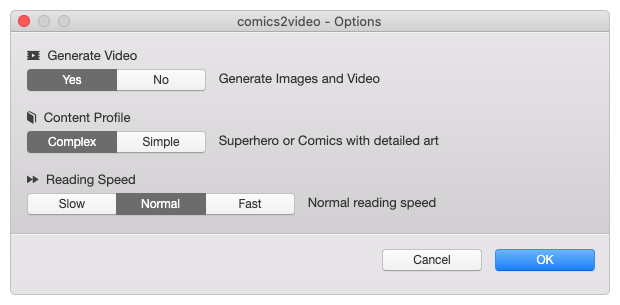
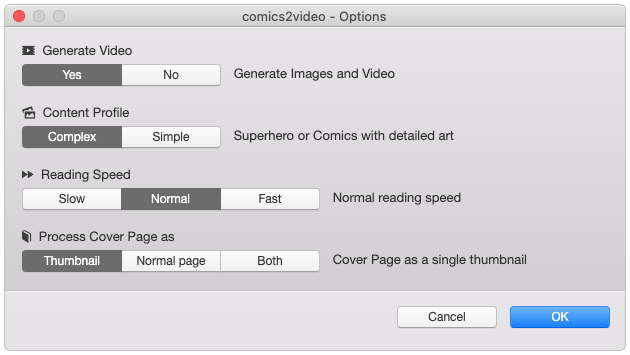
Cover Page Processing option and PDF (in Windows)

Changed region(s): [[0.0, 0.0, 1.0, 1.0]]

diff --git a/src/gui/renderer/optionWindow.js b/src/gui/renderer/optionWindow.js
@@ -16,15 +16,17 @@ const setMessage = (elementId, messageId) => {
 const parameters = [
     { name: 'GenerateVideo', options: ['Yes', 'No'], descriptions: [message('generate_video_yes'), message('generate_video_no')] },
     { name: 'ContentProfile', options: ['Complex', 'Simple'], descriptions: [message('content_profile_complex'), message('content_profile_simple')] },
-    { name: 'ReadingSpeed', options: ['Slow', 'Normal', 'Fast'], descriptions: [message('reading_speed_slow'), message('reading_speed_normal'), message('reading_speed_fast')] }
+    { name: 'ReadingSpeed', options: ['Slow', 'Normal', 'Fast'], descriptions: [message('reading_speed_slow'), message('reading_speed_normal'), message('reading_speed_fast')] },
+    { name: 'CoverPageProcessing', options: ['Thumbnail', 'NormalPage', 'Both'], descriptions: [message('cover_page_thumbnail'), message('cover_page_normal_page'), message('cover_page_both')] }
 ];
 
-const { userParams, contentProfiles, readingSpeeds } = ipcRenderer.sendSync('getUserParams');
+const { userParams, contentProfiles, readingSpeeds, coverPageProcessing } = ipcRenderer.sendSync('getUserParams');
 
 const setUserParams = () => {
     userParams.generateVideo = parameters[0].selectedIndex === 0;
     userParams.contentProfile = parameters[1].selectedIndex === 0 ? contentProfiles.complexContent : contentProfiles.simpleContent;
     userParams.readingSpeed = parameters[2].selectedIndex === 0 ? readingSpeeds.slow : parameters[2].selectedIndex === 1 ? readingSpeeds.normal : readingSpeeds.fast;
+    userParams.coverPageProcessing = parameters[3].selectedIndex === 0 ? coverPageProcessing.thumbnailPage : parameters[3].selectedIndex === 1 ? coverPageProcessing.normalPage : coverPageProcessing.thumbnailAndNormalPage;
 
     ipcRenderer.send('setUserParams', userParams);
 }
@@ -57,6 +59,7 @@ const showParams = () => {
     setOption(parameters[0], userParams.generateVideo ? 0 : 1);
     setOption(parameters[1], userParams.contentProfile.name === contentProfiles.complexContent.name ? 0 : 1);
     setOption(parameters[2], userParams.readingSpeed.name === readingSpeeds.slow.name ? 0 : userParams.readingSpeed.name === readingSpeeds.normal.name ? 1 : 2);
+    setOption(parameters[3], userParams.coverPageProcessing.name === coverPageProcessing.thumbnailPage.name ? 0 : userParams.coverPageProcessing.name === coverPageProcessing.normalPage.name ? 1 : 2);
 }
 
 const checkShortcutKeys = (e) => {
@@ -80,6 +83,12 @@ const setMessages = () => {
     setMessage('lblSlow', 'slow');
     setMessage('lblNormal', 'normal');
     setMessage('lblFast', 'fast');
+
+    setMessage('lblCoverPageProcessingLabel', 'cover_page');
+    setMessage('lblThumbnail', 'thumbnail');
+    setMessage('lblNormalPage', 'normal_page');
+    setMessage('lblBoth', 'both');
+
     setMessage('lblOK', 'ok');
     setMessage('lblCancel', 'cancel');
 }
@@ -98,6 +107,9 @@ const prepareWindow = () => {
     element('btnSlow').addEventListener('click', () => setOption(parameters[2], 0));
     element('btnNormal').addEventListener('click', () => setOption(parameters[2], 1));
     element('btnFast').addEventListener('click', () => setOption(parameters[2], 2));
+    element('btnThumbnail').addEventListener('click', () => setOption(parameters[3], 0));
+    element('btnNormalPage').addEventListener('click', () => setOption(parameters[3], 1));
+    element('btnBoth').addEventListener('click', () => setOption(parameters[3], 2));
     document.onkeydown = (e) => checkShortcutKeys(e);
 }
 

diff --git a/src/params.js b/src/params.js
@@ -39,6 +39,18 @@ const readingSpeeds = {
     }
 }
 
+const coverPageProcessing = {
+    thumbnailPage: {
+        name: 'thumbnailPage',
+    },
+    normalPage: {
+        name: 'normalPage',
+    },
+    thumbnailAndNormalPage: {
+        name: 'thumbnailAndNormalPage',
+    }
+}
+
 const systemParams = {
     screenWidth: width,
     screenHeight: height,
@@ -49,7 +61,6 @@ const systemParams = {
     ocrResizeRatio: .65,
     coverDuration: 10,
     pagesPerFilePart: 30,
-    skipFrontCover: false,
     jpegOutputQuality: 50,
     jpegOCROutputQuality: 80,
     videoFrameRate: 8,
@@ -63,6 +74,7 @@ const userParams = {
     generateVideo: true,
     contentProfile: contentProfiles.complexContent,
     readingSpeed: readingSpeeds.normal,
+    coverPageProcessing: coverPageProcessing.thumbnailPage,
     messageLanguage: 'en'
 }
 
@@ -109,6 +121,21 @@ const setReadingSpeed = (readingSpeed) => {
     }
 }
 
+const setCoverPageProcessing = (coverPageProcessingValue) => {
+    for (const option of Object.values(coverPageProcessing)) {
+        if (coverPageProcessingValue === option) {
+            userParams.coverPageProcessing = option;
+            return;
+        }
+        if (typeof coverPageProcessingValue === 'string') {
+            if (coverPageProcessingValue.trim().toLowerCase() === option.name) {
+                userParams.coverPageProcessing = option;
+                return;
+            }
+        }
+    }
+}
+
 const setMessageLanguage = (messageLanguage) => {
     if (messageLanguage) {
         userParams.messageLanguage = messageLanguage.trim();
@@ -124,11 +151,13 @@ const setParamValues = (paramValues) => {
     setContentProfile(paramValues.contentProfile);
     setReadingSpeed(paramValues.readingSpeed);
     setMessageLanguage(paramValues.messageLanguage);
+    setCoverPageProcessing(paramValues.coverPageProcessing)
 }
 
 module.exports = {
     contentProfiles,
     readingSpeeds,
+    coverPageProcessing,
     userParams,
     systemParams,
     setParamValues

diff --git a/src/util/filedir.js b/src/util/filedir.js
@@ -6,7 +6,8 @@ const message = require('../messages/message');
 
 const fileExtensions = {
     ZIP: ['.cbz', '.zip'],
-    RAR: ['.cbr', '.rar']
+    RAR: ['.cbr', '.rar'],
+    PDF: ['.pdf']
 }
 const imageExtensions = ['.jpg', '.jpeg', '.png', '.gif', '.png'];
 
@@ -42,6 +43,8 @@ const isZIP = (file) => fileExtensions.ZIP.includes(getFileExtension(file));
 
 const isRAR = (file) => fileExtensions.RAR.includes(getFileExtension(file));
 
+const isPDF = (file) => fileExtensions.PDF.includes(getFileExtension(file));
+
 const removeFolder = (path) => {
     try {
         deltree(path);
@@ -65,7 +68,10 @@ const getImagesFiles = (sourceFolder) => {
 const isSourceExtensionValid = (processData, fileName) => {
     const extension = getFileExtension(fileName);
 
-    if (isZIP(fileName) || isRAR(fileName)) {
+    // PDF conversion will work only in Windows
+    const isFilePDF = process.platform === 'win32' ? isPDF(fileName) : false;
+
+    if (isZIP(fileName) || isRAR(fileName) || isFilePDF) {
         return true;
     }
 }
@@ -73,7 +79,10 @@ const isSourceExtensionValid = (processData, fileName) => {
 const isSelectedFileValid = (fileName) => {
     const extension = getFileExtension(fileName);
 
-    if (isZIP(fileName) || isRAR(fileName)) {
+    // PDF conversion will work only in Windows
+    const isFilePDF = process.platform === 'win32' ? isPDF(fileName) : false;
+
+    if (isZIP(fileName) || isRAR(fileName) || isFilePDF) {
         return true;
     }
 }
@@ -127,7 +136,7 @@ const tryFindSubFolder = (folder) => {
 }
 
 const replaceInvalidCharacters = (fileName) => {
-    const invalidCharacters = '&?/\\|<>:*"';
+    const invalidCharacters = '&?/\\|<>:;*`\'"';
     const replacement = '_';
 
     return fileName
@@ -230,6 +239,7 @@ module.exports = {
     tryFindSubFolder,
     isZIP,
     isRAR,
+    isPDF,
     isFile,
     getImagesFiles,
     prepareImageDestinationFolder,

diff --git a/src/gui/mainProcess.js b/src/gui/mainProcess.js
@@ -1,5 +1,5 @@
 const { app, ipcMain } = require('electron');
-const { userParams, contentProfiles, readingSpeeds } = require('../params');
+const { userParams, contentProfiles, readingSpeeds, coverPageProcessing } = require('../params');
 const Comics2video = require('../classes/Comics2video');
 const message = require('../messages/message');
 const log = require('../terminal/basicLog');
@@ -7,11 +7,11 @@ const log = require('../terminal/basicLog');
 const isMac = process.platform === 'darwin';
 const isWindows = process.platform === 'win32';
 // Electron may not be able to get version directly from package.json
-const appVersion = '2.1.1';
+const appVersion = '2.2.0';
 
 const checkPlatform = () => {
     if (!isWindows && !isMac) {
-        // In Linux, some modules used by comics2video don't work properly inside a Electron App
+        // In Linux, some modules used by comics2video don't work properly inside an Electron App
         log('\nWarning: The Electron GUI for comics2video is compatible only with Windows and macOS\n');
         process.exit(0);
     }
@@ -63,7 +63,8 @@ ipcMain.on('getUserParams', async (e) => {
     e.returnValue = {
         userParams,
         contentProfiles,
-        readingSpeeds
+        readingSpeeds,
+        coverPageProcessing
     }
 });
 
@@ -71,6 +72,7 @@ ipcMain.on('setUserParams', async (e, values) => {
     userParams.generateVideo = values.generateVideo;
     userParams.contentProfile = values.contentProfile;
     userParams.readingSpeed = values.readingSpeed;
+    userParams.coverPageProcessing = values.coverPageProcessing;
 });
 
 ipcMain.on('getMessage', async (e, messageId) => {

diff --git a/src/gui/renderer/optionWindow.html b/src/gui/renderer/optionWindow.html
@@ -27,7 +27,7 @@
             </div>
             <div class="toolbar-actions">
                 <p class="option-label">
-                    <span class="icon icon-book"></span>
+                    <span class="icon icon-picture"></span>
                     <span id="lblContentProfileLabel">Content Profile</span>
                 </p>
                 <div class="btn-group">
@@ -57,6 +57,24 @@
                     </button>
                 </div>
                 <span class="option-description" id="lblReadingSpeed"></span>
+            </div>
+            <div class="toolbar-actions">
+                <p class="option-label">
+                    <span class="icon icon-book"></span>
+                    <span id="lblCoverPageProcessingLabel">Process Cover Page as</span>
+                </p>
+                <div class="btn-group">
+                    <button class="btn btn-mini btn-default" id="btnThumbnail">
+                        <span id="lblThumbnail">Thumbnail</span>
+                    </button>
+                    <button class="btn btn-mini btn-default" id="btnNormalPage">
+                        <span id="lblNormalPage">Normal Page</span>
+                    </button>
+                    <button class="btn btn-mini btn-default" id="btnBoth">
+                        <span id="lblBoth">Both</span>
+                    </button>
+                </div>
+                <span class="option-description" id="lblCoverPageProcessing"></span>
             </div>
         </div>
 

diff --git a/src/gui/renderer/mainWindow.js b/src/gui/renderer/mainWindow.js
@@ -52,12 +52,18 @@ const setButtonsEnabled = (enabled) => {
 
 const getFileFolderSelection = (title, dialogStyle) => {
     const filterName = message('comics_books');
+
+    const extensions = ['cbr', 'cbz', 'pdf', 'rar', 'zip'];
+    if (process.platform !== 'win32') {
+        // Due to compatibility issues, remove PDF option if not in Windows
+        extensions.splice(2, 1);
+    }
     
     let selection = dialog.showOpenDialogSync(currentWindow, {
         title: title,
         properties: [dialogStyle],
         filters: [
-            { name: filterName, extensions: ['cbr', 'cbz', 'rar', 'zip'] }
+            { name: filterName, extensions }
         ]
     })
 

diff --git a/src/image/cover.js b/src/image/cover.js
@@ -164,7 +164,11 @@ const addCoverPages = (filePart) => {
         coverSubtitle = `${filePart.pages.length} ${pageLabel}`;
     }
 
-    if (!params.systemParams.skipFrontCover) {
+    if (params.userParams.coverPageProcessing.name === params.coverPageProcessing.thumbnailPage.name && filePart.partNumber === 1) {
+        filePart.pages.splice(0, 1);
+    }
+
+    if (params.userParams.coverPageProcessing.name !== params.coverPageProcessing.normalPage.name) {
         filePart.pages.unshift(
             newCoverPage({
                 number: firstPage.number,

diff --git a/src/extraction/extract.js b/src/extraction/extract.js
@@ -15,6 +15,9 @@ const extractFile = async (processData) => {
             await extractZIP.extract(file);
         } else if (filedir.isRAR(file.source)) {
             await extractRAR.extract(file);
+        } else {
+            // require() cannot be at the beginning because PDF extraction will be installed only in Windows
+            await require('./extractPDF').extract(file);
         }
 
         file.tempFolders.pages = filedir.tryFindSubFolder(file.tempFolders.pages);

diff --git a/src/extraction/extractPDF.js b/src/extraction/extractPDF.js
@@ -1,0 +1,14 @@
+const { Poppler } = require("node-poppler");
+const path = require('path');
+
+const extract = async (file) => {
+    const output = path.join(file.tempFolders.pages, 'page');
+    const poppler = new Poppler();
+    const options = {
+        jpegFile: true,
+    };
+
+    await poppler.pdfToCairo(file.source, output, options);
+}
+
+module.exports = { extract }

diff --git a/src/gui/app.js b/src/gui/app.js
@@ -60,7 +60,7 @@ function createMainWindow() {
 
 function showOptionWindow() {
     optionWindow = new BrowserWindow({
-        width: 600, height: 285,
+        width: 620, height: 345,
         center: true,
         resizable: false, minimizable: false, maximizable: false,
         parent: mainWindow, modal: true, show: false,

diff --git a/src/gui/renderer/main.css b/src/gui/renderer/main.css
@@ -115,5 +115,5 @@ footer .btn {
 }
 
 .btn-group .btn {
-  width: 90px;
+  width: 100px;
 }

diff --git a/README.pt.md b/README.pt.md
@@ -16,14 +16,14 @@ Amostra de Vídeo gerado<br/>
 
 ### Para Windows
 1. Faça o download do arquivo:
-	- [comics2video 2.1.1 para Windows](https://github.com/MauricioPinguim/comics2video/releases/latest/download/comics2video_windows_latest.zip)
+	- [comics2video 2.2.0 para Windows](https://github.com/MauricioPinguim/comics2video/releases/latest/download/comics2video_windows_latest.zip)
 2. Descompacte o arquivo baixado e abra o executável:
 ![executável do comics2video](./docs/images/comics2video_executable_small.png)
 
 ### Para macOS:
 > Por ser baixado do GitHub e não da Apple Store, siga todos os passos abaixo antes de usar o comics2video pela primeira vez
 1. Faça o download do arquivo:
-	- [comics2video 2.1.1 para macOS](https://github.com/MauricioPinguim/comics2video/releases/latest/download/comics2video_macOS_latest.zip)
+	- [comics2video 2.2.0 para macOS](https://github.com/MauricioPinguim/comics2video/releases/latest/download/comics2video_macOS_latest.zip)
 2. Descompacte o arquivo baixado
 3. Clique com o botão direito no arquivo  **comics2video_Prepare_First_Execution** e escolha "Abrir" no submenu
 4. Confirme a abertura do arquivo. Um script será executado e mostrará a mensagem "Done"
@@ -89,10 +89,11 @@ Campos da estrutrura userParameters (todos opcionais):
 
 | Nome | Como definir | Valor padrão | Descrição |
 | --- | --- | --- | --- |
-| generateVideo | boolean | true | Se igual a false, apenas Imagens serão geradas |
-| contentProfile | string:<br/>'simple', 'complex' | 'complex' | Muda a forma com a qual o OCR determina o tempo de duração de cada frame:<br/>• 'simple' : Para HQ infantil, arte com pouco detalhe<br />• 'complex' : Para HQ de Heróis, arte com bastante detalhe |
-| readingSpeed | string:<br/> 'slow', 'normal', 'fast' | 'normal' | Também influencia o cálculo dos tempos de duração:<br/>• 'slow' : Para crianças, ou leitura em outro idioma<br />• 'normal' : Velocidade normal de leitura<br />• 'fast' : Leitura dinâmica |
-| messageLanguage | string:<br/> 'en', 'pt' | 'en' | Idioma da Interface Gráfica e alguns elementos:<br />• 'en' : Inglês<br />• 'pt' : Português (Brasil) |
+| generateVideo | *boolean* | true | Se igual a false, apenas Imagens serão geradas |
+| contentProfile | *string:*<br/>'simple', <br/>'complex' | 'complex' | Muda a forma com a qual o OCR determina o tempo de duração de cada frame:<br/>• 'simple' : Para HQ infantil, arte com pouco detalhe<br />• 'complex' : Para HQ de Heróis, arte com bastante detalhe |
+| readingSpeed | *string:*<br/> 'slow', <br/>'normal', <br/>'fast' | 'normal' | Também influencia o cálculo dos tempos de duração:<br/>• 'slow' : Para crianças, ou leitura em outro idioma<br />• 'normal' : Velocidade normal de leitura<br />• 'fast' : Leitura dinâmica |
+| coverPageProcessing | *string:*<br/> 'thumbnailPage', <br/>'normalPage', <br/>'thumbnailAndNormalPage' | 'thumbnailPage' | Processar Página de Capa como:<br/>• 'thumbnailPage' : Capa será mostrada como uma miniatura<br />• 'normalPage' : Capa será mostrada como página normal<br />• 'thumbnailAndNormalPage' : Capa como miniatura e página normal |
+| messageLanguage | *string:*<br/> 'en', <br/>'pt' | 'en' | Idioma da Interface Gráfica e alguns elementos:<br />• 'en' : Inglês<br />• 'pt' : Português (Brasil) |
 
 ## Usando os arquivos gerados
 Após cada processamento, uma pasta será criada com o mesmo nome do arquivo da HQ, contendo:
@@ -104,7 +105,7 @@ Após cada processamento, uma pasta será criada com o mesmo nome do arquivo da 
 ## Projeto comics2video
 
 ### Dependências do Código-Fonte
-Extração de arquivos CBR/RAR: [unrar-promise](https://www.npmjs.com/package/unrar-promise), arquivos CBZ/ZIP: [win-7zip](https://www.npmjs.com/package/win-7zip)+[cross-zip](https://www.npmjs.com/package/cross-unzip), Processamento de Imagens: [sharp](https://www.npmjs.com/package/sharp), OCR: [tesseract.js](https://www.npmjs.com/package/tesseract.js), Geração de Vídeo: [ffmpeg-static](https://www.npmjs.com/package/ffmpeg-static), Interface Gráfica: [electron](https://www.npmjs.com/package/electron)+[photonkit](https://www.npmjs.com/package/photonkit)
+Extração de arquivos CBR/RAR: [unrar-promise](https://www.npmjs.com/package/unrar-promise), arquivos CBZ/ZIP: [win-7zip](https://www.npmjs.com/package/win-7zip)+[cross-zip](https://www.npmjs.com/package/cross-unzip), arquivos PDF (Windows): [node-poppler](https://www.npmjs.com/package/node-poppler), Processamento de Imagens: [sharp](https://www.npmjs.com/package/sharp), OCR: [tesseract.js](https://www.npmjs.com/package/tesseract.js), Geração de Vídeo: [ffmpeg-static](https://www.npmjs.com/package/ffmpeg-static), Interface Gráfica: [electron](https://www.npmjs.com/package/electron)+[photonkit](https://www.npmjs.com/package/photonkit)
 
 ### Próximos passos
 - Tradução da Interface Gráfica e documentação para **Espanhol** e outros idiomas além de Inglês e Português (precisamos de ajuda nisso!)
